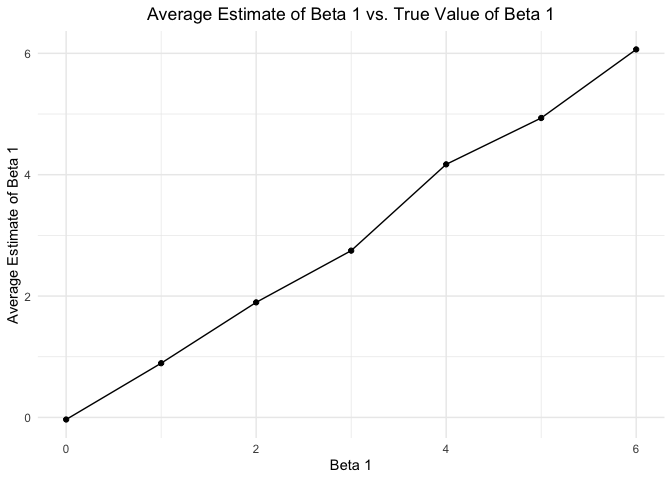
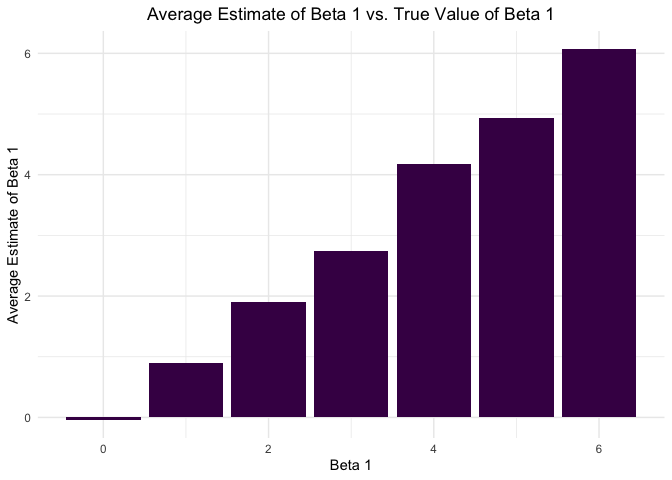
Editing plots 2 and 3 in problem 3

Changed region(s): [[0.0938, 0.0938, 0.9688, 0.875], [0.375, 0.9062, 0.4062, 0.9375], [0.2812, 0.6875, 0.3125, 0.7188]]

diff --git a/p8105_hw5_sm4594.md b/p8105_hw5_sm4594.md
@@ -127,9 +127,13 @@ sim_results1 =
 
 ``` r
 sim_results1 %>% 
-  mutate(reject = ifelse(p.value <= 0.05, "significant", "non-significant")) %>%
+  mutate(
+    reject = ifelse(p.value <= 0.05, "significant", "non-significant")
+    ) %>%
   group_by(beta1, reject) %>% 
-  mutate(significant_count = n()) %>% 
+  mutate(
+    significant_count = n()
+    ) %>% 
   mutate(significant_rate = significant_count/10000) %>%
   select(beta1, significant_rate) %>% 
   filter(reject == "significant") %>% 
@@ -156,12 +160,12 @@ sim_results1 %>%
   group_by(beta1) %>% 
   summarize(mean_estimate = mean(estimate)) %>%
   ggplot(aes(x = beta1, y = mean_estimate)) +
-  geom_line() +
-  geom_point() +
+  geom_col(aes(fill = "viridis"), show.legend = FALSE) +
   labs(
     title = "Average Estimate of Beta 1 vs. True Value of Beta 1",
     x = "Beta 1",
-    y = "Average Estimate of Beta 1"
+    y = "Average Estimate of Beta 1",
+    fill = " "
   ) +
   theme(plot.title = element_text(hjust = 0.5))
 ```
@@ -178,12 +182,12 @@ sim_results1 %>%
   group_by(beta1) %>% 
   summarize(mean_estimate = mean(estimate)) %>%
   ggplot(aes(x = beta1, y = mean_estimate)) +
-  geom_line() +
-  geom_point() +
+  geom_col(aes(fill = "viridis"), show.legend = FALSE) +
   labs(
     title = "Average Estimate of Beta 1 vs. True Value of Beta 1, When Null was Rejected",
     x = "Beta 1",
-    y = "Average Estimate of Beta 1"
+    y = "Average Estimate of Beta 1",
+    fill = " "
   ) +
   theme(plot.title = element_text(hjust = 0.5))
 ```
